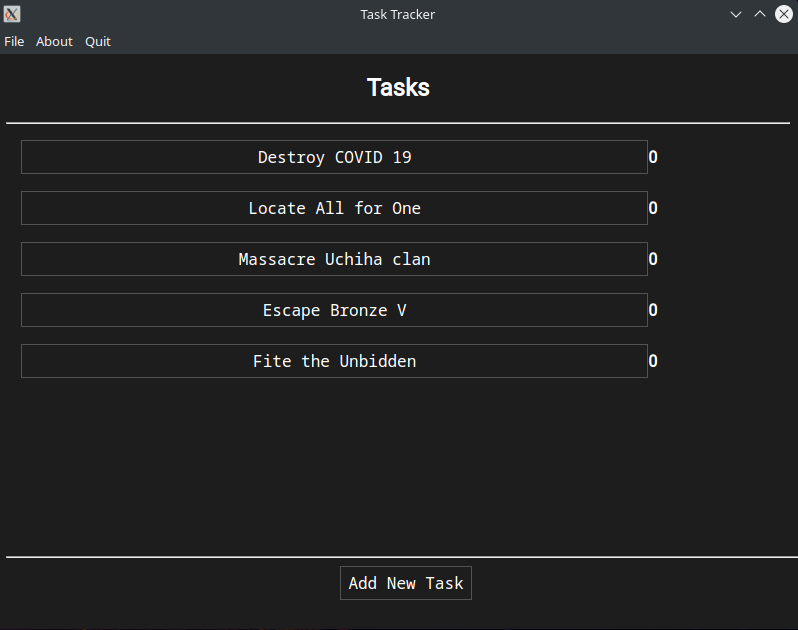
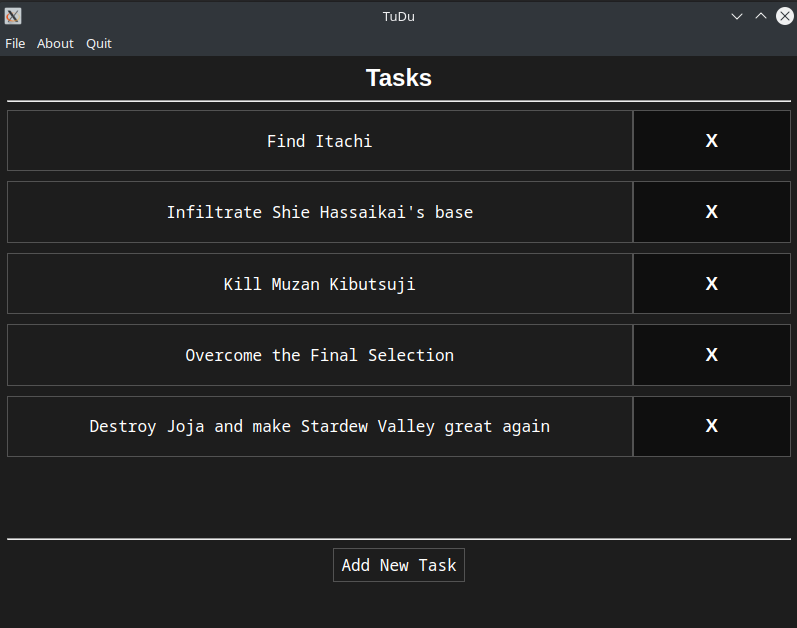
Update info about the app

diff --git a/README.md b/README.md
@@ -1,4 +1,4 @@
 ![WATASHI-GA-KITA](./assets/screenshot.png)
 
-# Tracker
-A simple habit tracker. Nothing fancy. WIP.
+# TuDu
+A simple TuDu list. Might get more fancy as time goes on.
